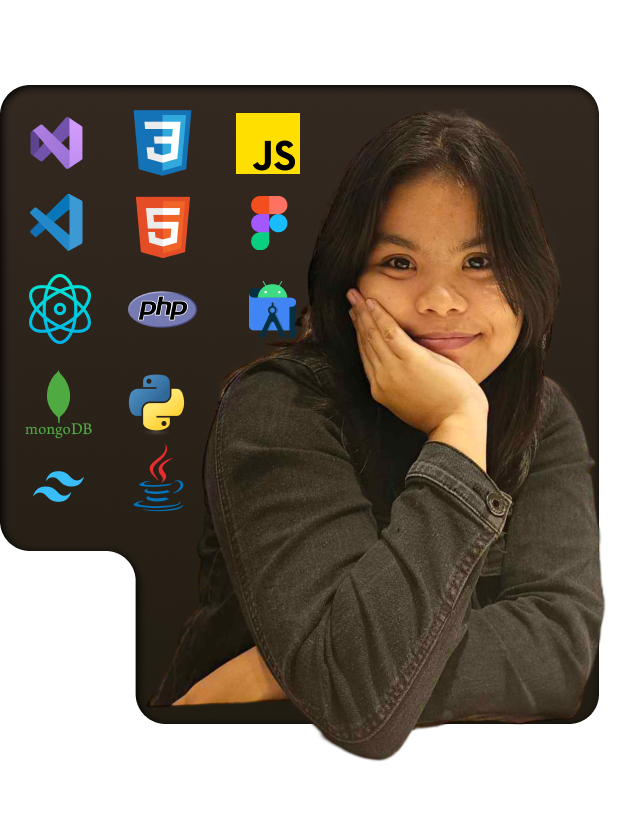
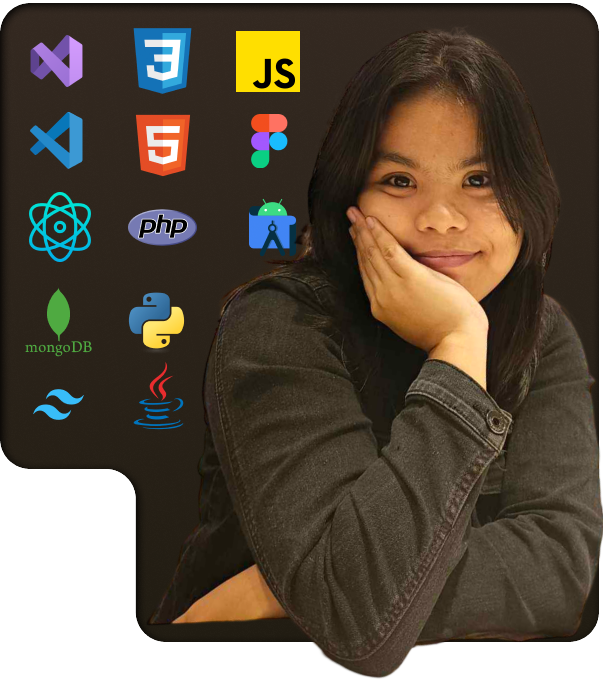
main content and about skills

diff --git a/portfolio/src/components/aboutskills.jsx b/portfolio/src/components/aboutskills.jsx
@@ -20,7 +20,51 @@ export default function AboutSkills() {
             <div className="aboutskillsdetails">
                 <p className="iam">I am a fourth-year Business Analytics student at Batangas State University - JPLPC Malvar and a self-taught programmer with four years of experience, mainly in web development. I also have a background in creating Windows applications and enjoy exploring new technologies to enhance my skills.</p>
             </div>
-          
+            <div className="languages">
+                <div className="language-item">
+                    <h1>HTML</h1>
+                    <div className="progress-bar">
+                        <div className="progress" style={{ width: "90%" }}></div>
+                    </div>
+                </div>
+                <div className="language-item">
+                    <h1>CSS</h1>
+                    <div className="progress-bar">
+                        <div className="progress" style={{ width: "85%" }}></div>
+                    </div>
+                </div>
+                <div className="language-item">
+                    <h1>Javascript</h1>
+                    <div className="progress-bar">
+                        <div className="progress" style={{ width: "80%" }}></div>
+                    </div>
+                </div>
+                <div className="language-item">
+                    <h1>REACT</h1>
+                    <div className="progress-bar">
+                        <div className="progress" style={{ width: "75%" }}></div>
+                    </div>
+                </div>
+                <div className="language-item">
+                    <h1>MONGOOSE</h1>
+                    <div className="progress-bar">
+                        <div className="progress" style={{ width: "70%" }}></div>
+                    </div>
+                </div>
+                <div className="language-item">
+                    <h1>EXPRESS</h1>
+                    <div className="progress-bar">
+                        <div className="progress" style={{ width: "65%" }}></div>
+                    </div>
+                </div>
+                <div className="language-item">
+                    <h1>NODE</h1>
+                    <div className="progress-bar">
+                        <div className="progress" style={{ width: "60%" }}></div>
+                    </div>
+                </div>
+            </div>
+
            
         </div>
     );

diff --git a/portfolio/src/components/css/aboutskills.css b/portfolio/src/components/css/aboutskills.css
@@ -42,6 +42,8 @@
     margin-top: 120px;
 }
 .rightskills{
+    margin-top: 20px;
+    margin-left: 20px;
     width: 25%;
     height: 100%;
 }
@@ -61,5 +63,39 @@
 .iam{
     width: 70%;
     color: white;
+    font-size: 21px;
+}
+.languages {
+    display: flex;
+    flex-direction: column;
+    gap: 20px;
+    margin-top: 20px;
+}
+
+.language-item {
+    display: flex;
+    align-items: center;
+    gap: 20px;
+}
+
+.progress-bar {
+    width: 60%;
+    height: 10px;
+    background-color: #ccc;
+    border-radius: 5px;
+    overflow: hidden;
+    position: relative;
+}
+.languages{
+    margin-top: 60px;
+    margin-left: 50px;
+    width: 70%;
+    color: white;
     font-size: 20px;
+}
+.progress {
+    height: 100%;
+    background-color: #4caf50;
+    border-radius: 5px;
+    transition: width 0.3s ease-in-out;
 }

diff --git a/portfolio/src/components/css/maincontent.css b/portfolio/src/components/css/maincontent.css
@@ -2,15 +2,14 @@
     max-width: 1650px;
     display: flex;
     flex-direction: row;
-    /* Ensures no bottom shadow */
+    margin-bottom: 0;
 }
-
-
-
 .mypicture {
-    max-width: 50%;
+    margin-left: 20px;
+    max-width: 100%;
     height: 100%;
     display: flex;
+    align-items: center;
     justify-content: center;
 }
 

diff --git a/portfolio/src/App.jsx b/portfolio/src/App.jsx
@@ -7,7 +7,7 @@ import AboutSkills from './components/aboutskills'
 
 export default function App() {
   return (
-    <div className="mx-auto max-w-[1437.65px]">
+    <div className="mx-auto max-w-[1437.65px] p-5 shadow-2xl ">
       <NavBar />
       <MainContent />
       <Projects />

diff --git a/portfolio/src/components/css/projects.css b/portfolio/src/components/css/projects.css
@@ -1,10 +1,9 @@
 /* Container Styling */
 .projects {
-    margin-top: 30px;
     max-width: 1450px;
     max-height: 900px;
     display: flex;
-    margin-bottom: 0;
+    margin-bottom: 60px;
     border: 1px;
   }
   
